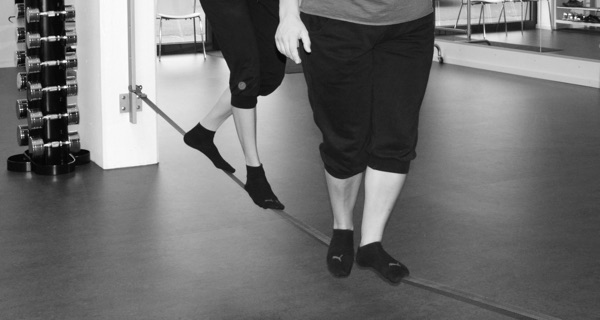
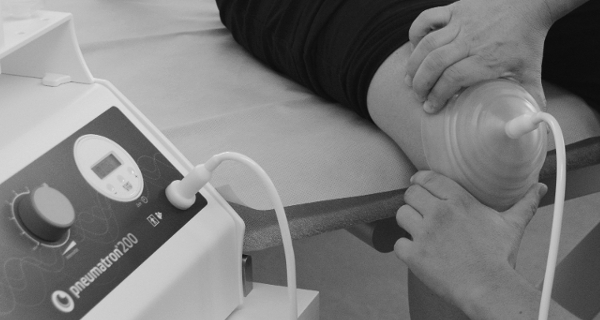
new people

diff --git a/public/scripts/components/modals/ModalTeam.jsx b/public/scripts/components/modals/ModalTeam.jsx
@@ -6,13 +6,11 @@ import Link from 'scripts/components/atomic/Link.jsx';
 import Icon from 'scripts/components/atomic/Icon.jsx';
 
 import Mirjam from 'imgs/portraits/131.jpg';
-import Carmen from 'imgs/portraits/141.jpg';
-import MirjamB from 'imgs/portraits/121.jpg';
-import KathrinS from 'imgs/portraits/111.jpg';
+import Catrina from 'imgs/portraits/windlin.jpg';
+import Mario from 'imgs/portraits/muilwijk.jpg';
 import lebenslaufMD from 'documents/Lebenslauf_MD.pdf';
-import lebenslaufCB from 'documents/Lebenslauf_CB.pdf';
-import lebenslaufMB from 'documents/Lebenslauf_MB.pdf';
-import lebenslaufKS from 'documents/Lebenslauf_KS.pdf';
+import lebenslaufCW from 'documents/Lebenslauf_catrina_windlin.pdf';
+
 
 export default class extends React.Component {
   render() {
@@ -44,83 +42,48 @@ export default class extends React.Component {
           <Link icon={<Icon name="file-pdf-o" />} href={lebenslaufMD} newWindow={true}>Lebenslauf</Link>
         </p>
 
-        <h2>carmen brugger</h2>
+        <h2>catrina windlin</h2>
         <Splitview
           left = {
-            <img src={Carmen} width="100" />
+            <img src={Catrina} width="100" />
           }
           right = {
             <ul>
-              <Li>selbstständige mitarbeiterin physio balance</Li>
               <Li>dipl. physiotherapeutin fh</Li>
-              <Li>dipl. craniosacral therapeutin</Li>
-              <Li>funktionelles elastisches taping (mtc und ntc)</Li>
-              <Li>manuelle therapie nach cyriax</Li>
-              <Li>medizinische klangschalentherapie</Li>
+              <Li>manuelle therapie nach maitland level 2a</Li>
+              <Li>triggerpunkttherapie</Li>
+              <Li>myofasziales taping</Li>
+              <Li>kiefergelenktherapie</Li>
             </ul>
           }
         />
 
         <p>
-          Durch eine ganzheitliche und individuelle Betreuung möchte ich zusammen mit dir eine Verbesserung deines
-          Gesundheitszustandes erreichen und somit dein Wohlbefinden steigern.
+          Eine lösungsorientierte Behandlung, die individuell auf dich abgestimmt ist, steht für mich im Vordergrund.
+          Mit viel Engagement und breitem Fachwissen begleite ich dich zu deinem Ziel! 
         </p>
         <p>
-          <Link icon={<Icon name="file-pdf-o" />} href={lebenslaufCB} newWindow={true}>Lebenslauf</Link>
+          <Link icon={<Icon name="file-pdf-o" />} href={lebenslaufCW} newWindow={true}>Lebenslauf</Link>
         </p>
 
-        <h2>mirjam bölsterli</h2>
+        <h2>mario muilwijk</h2>
         <Splitview
           left = {
-            <img src={MirjamB} width="100" />
+            <img src={Mario} width="100" />
           }
           right = {
             <ul>
-              <Li>selbstständige mitarbeiterin physio balance</Li>
-              <Li>dipl. physiotherapeutin fh</Li>
-              <Li>dipl. craniosacral therapeutin</Li>
-              <Li>manuelle therapie nach samt</Li>
-              <Li>kinesio taping nach dr. kenzo kase</Li>
-              <Li>esp sportphysiotherapie (wirbelsäule, knie, schulter)</Li>
-              <Li>fussreflexzonentherapie</Li>
+              <Li>dipl. physiotherapeut (zulassung schweiz &amp; holland)</Li>
+              <Li>manuelle lymphdrainage nach vodder </Li>
+              <Li>faszien distortions modell</Li>
+              <Li>fascial manipulation</Li>
+              <Li>dry needling extremitaten, wirbelsaule und kiefer</Li>
+              <Li>strength &amp; conditioning specialist</Li>
+              <Li>kinesiotaping kenzo kase</Li>
+              <Li>mulligan concept</Li>
             </ul>
           }
         />
-
-        <h3>klassische physiotherapie trifft auf ganzheitliche körperarbeit</h3>
-        <p>
-          Mit zunehmender Berufserfahrung haben mich vermehrt Systeme interessiert, in welchen der
-          Mensch als Ganzes
-          betrachtet wird. So stehen mir heute sehr unterschiedliche Ansätze für die individuelle
-          Behandlung zur Verfügung, von der klassischen Physiotherapie bis hin zur Stimulation der
-          Selbstheilungskräfte, um deinem Körper die Möglichkeit zu geben, sein Gleichgewicht wieder
-          zu finden.
-        </p>
-        <p>
-          <Link icon={<Icon name="file-pdf-o" />} href={lebenslaufMB} newWindow={true}>Lebenslauf</Link>
-        </p>
-
-        <h2>kathrin schmid</h2>
-        <Splitview
-          left = {
-            <img src={KathrinS} width="100" />
-          }
-          right = {
-            <ul>
-              <Li>dipl. physiotherapeutin fh</Li>
-              <Li>manuelle therapie nach maitland i.a</Li>
-              <Li>kinesio taping nach dr. kenzo kase</Li>
-            </ul>
-          }
-        />
-
-        <p>
-          Jeder Mensch ist individuell - so auch meine Therapie.
-          Mit einer ganzheitlichen Behandlung begleite ich dich zu deinen persönlich gesetzten Zielen.
-        </p>
-        <p>
-          <Link icon={<Icon name="file-pdf-o" />} href={lebenslaufKS} newWindow={true}>Lebenslauf</Link>
-        </p>
 
       </Modal>
     );

diff --git a/public/scripts/components/Root.jsx b/public/scripts/components/Root.jsx
@@ -3,7 +3,7 @@ import PropTypes from 'prop-types';
 import { BrowserRouter, Route, Switch } from 'react-router-dom';
 
 import Board from 'scripts/components/Board.jsx';
-import Facebook from 'scripts/components/Facebook.jsx';
+// import Facebook from 'scripts/components/Facebook.jsx';
 
 import BarCompany from 'scripts/components/bars/BarCompany.jsx';
 
@@ -30,7 +30,7 @@ class Content extends React.Component {
       <div>
         {this.props.children}
         <BarCompany />
-        <Facebook />
+        {/*<Facebook />*/}
         <Board
           widgets={[
             <WidgetTeam />, <WidgetConcept />, <WidgetContact/>, <WidgetRooms />,